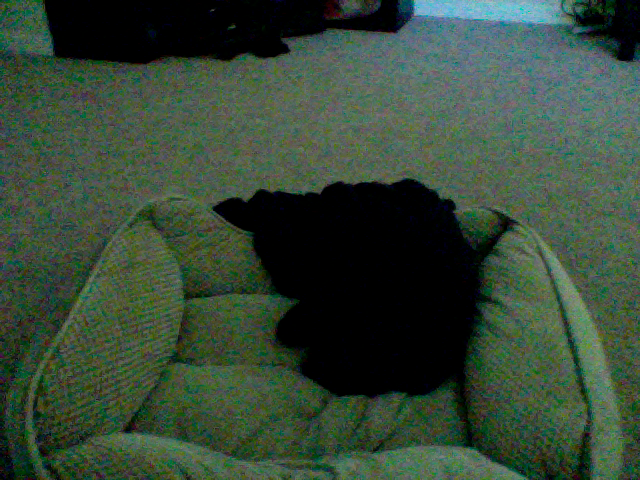
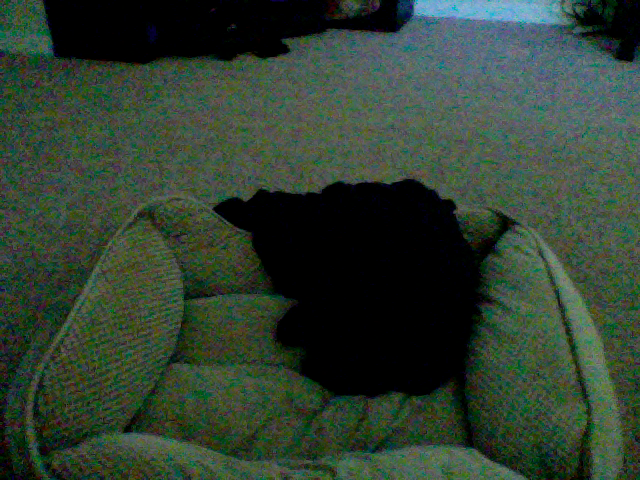
update at Month05Day08Time18:38

diff --git a/index.html b/index.html
@@ -40,7 +40,7 @@
       <div class="row">
         <div class="col-md-4">
 	<p>This picture was updated at Month05Day08Time18:38</p>
-		<img src="8_pic.png" />
+		<img src="6_pic.png" />
         </div>
       </div>
 
